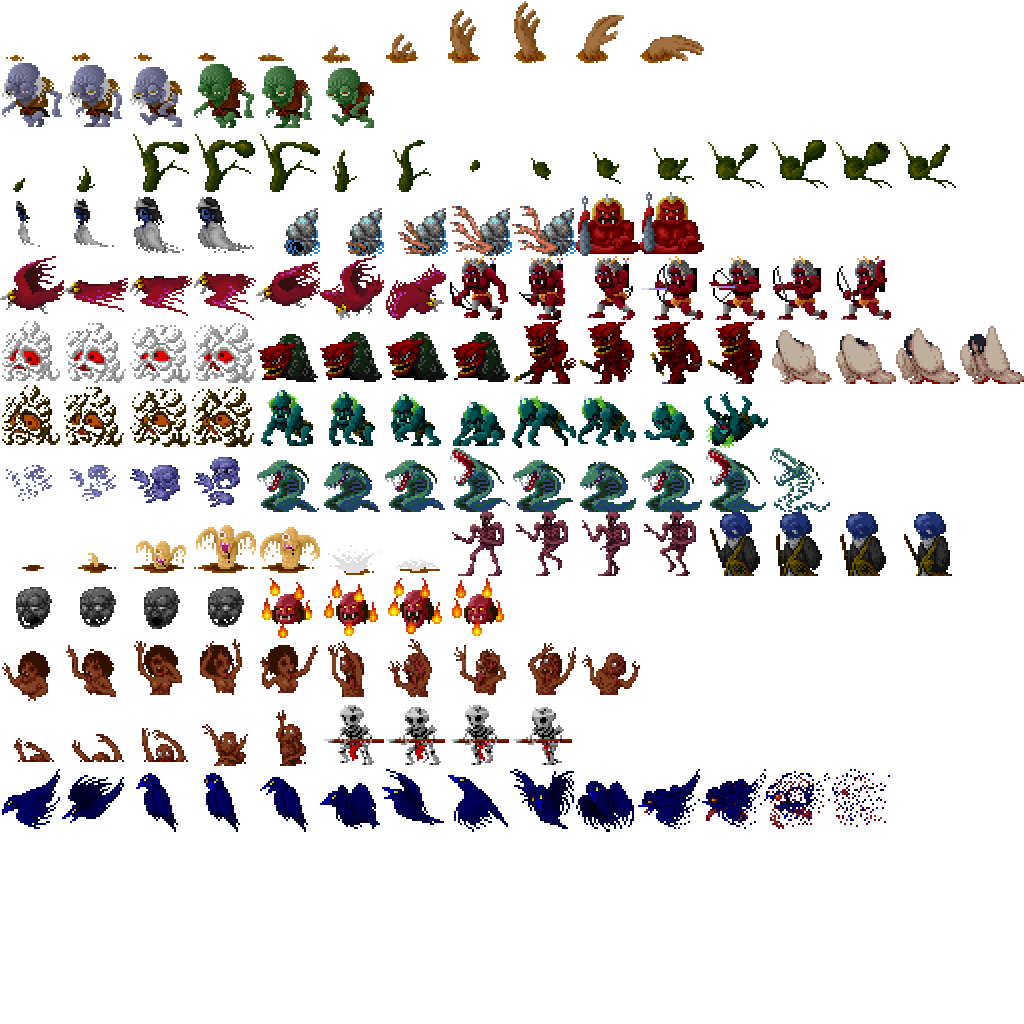
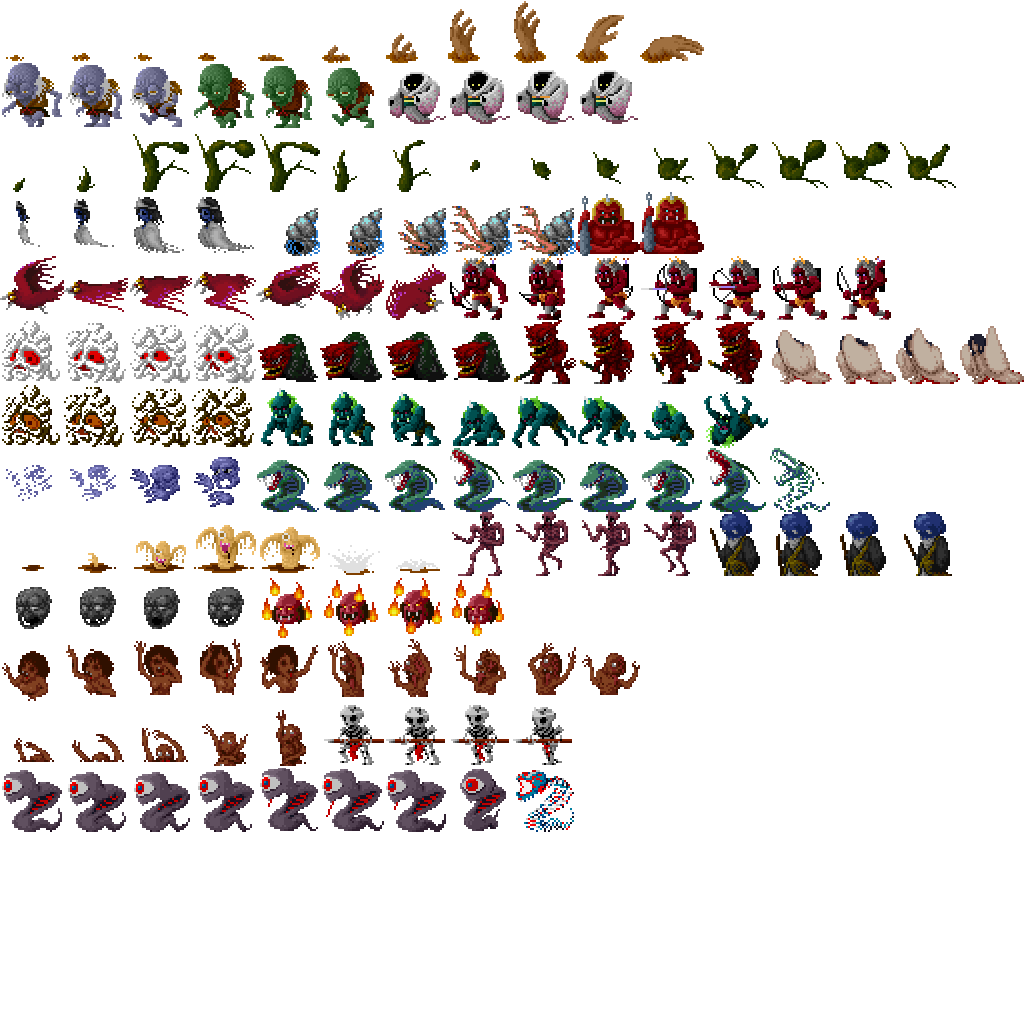
一つ目蛇

Changed region(s): [[0.0, 0.75, 0.8438, 0.8125], [0.375, 0.0625, 0.625, 0.125]]

diff --git a/Solution/AceLiveMonitor/EnemyOneEyeSnake.cpp b/Solution/AceLiveMonitor/EnemyOneEyeSnake.cpp
@@ -1,0 +1,42 @@
+#include "EnemyOneEyeSnake.h"
+
+const int WAIT_ANIM_TIME = 5;
+
+EnemyOneEyeSnake::EnemyOneEyeSnake( const Vector& pos ) :
+Enemy( pos, NORMAL_CHAR_GRAPH_SIZE ) {
+	setRadius( 36 );
+}
+
+
+EnemyOneEyeSnake::~EnemyOneEyeSnake( ) {
+}
+
+void EnemyOneEyeSnake::act( ) {
+
+}
+
+Chip EnemyOneEyeSnake::getChip( ) const {
+	const int ANIM[ ] = {
+		0, 1, 2, 3, 4, 5, 6, 7
+	};
+	int anim_size = sizeof( ANIM ) / sizeof( ANIM[ 0 ] );
+	Chip chip = Chip( );
+	chip.tx = ANIM[ getActCount( ) / WAIT_ANIM_TIME % anim_size ] * 64;
+	chip.ty = 12 * 64;
+	chip.size = getChipSize( );
+	
+	Vector pos = getPos( );
+	DIR dir = getDir( );
+	if ( dir == DIR_RIGHT ){
+		chip.sx1 = ( int )pos.x - chip.size / 2 + chip.size;
+		chip.sy1 = ( int )pos.y - chip.size;
+		chip.sx2 = chip.sx1 - chip.size;
+		chip.sy2 = chip.sy1 + chip.size;
+	} else {
+		chip.sx1 = ( int )pos.x - chip.size / 2;
+		chip.sy1 = ( int )pos.y - chip.size;
+		chip.sx2 = chip.sx1 + chip.size;
+		chip.sy2 = chip.sy1 + chip.size;
+	}
+	return chip;
+}

diff --git a/Solution/AceLiveMonitor/Popper.cpp b/Solution/AceLiveMonitor/Popper.cpp
@@ -11,6 +11,7 @@
 #include "PopCrocoSnake.h"
 #include "PopGhoul.h"
 #include "PopGhost.h"
+#include "PopOneEyeSnake.h"
 
 PopperPtr Popper::getTask( ) {
 	return std::dynamic_pointer_cast< Popper >( Application::getInstance( )->getTask( getTag( ) ) );
@@ -51,6 +52,9 @@ void Popper::initialize( ) {
 				break;
 			case  OBJECT_GHOST:	
 				_pops.push_back( PopPtr( new PopGhost( Vector( x, y ) ) ) );
+				break;
+			case  OBJECT_ONE_EYE_SNAKE:	
+				_pops.push_back( PopPtr( new PopOneEyeSnake( Vector( x, y ) ) ) );
 				break;
 			}
 		}

diff --git a/Solution/AceEditor/ObjectMenu.cpp b/Solution/AceEditor/ObjectMenu.cpp
@@ -49,6 +49,7 @@ const Rect enemies_rect[ ] = {
 	RECT_CROCO_SNAKE,
 	RECT_GHOUL,
 	RECT_GHOST,
+	RECT_ONE_EYE_SNAKE,
 };
 const int MAX_ENEMY = sizeof( enemies_rect ) / sizeof( enemies_rect[ 0 ] );
 
@@ -191,6 +192,9 @@ unsigned char ObjectMenu::getEnemy( int idx ) const {
 		break;
 	case 6:
 		result = OBJECT_GHOST;
+		break;
+	case 7:
+		result = OBJECT_ONE_EYE_SNAKE;
 		break;
 	default:
 		result = OBJECT_NONE;

diff --git a/Solution/AceLiveMonitor/PopOneEyeSnake.cpp b/Solution/AceLiveMonitor/PopOneEyeSnake.cpp
@@ -1,0 +1,19 @@
+#include "PopOneEyeSnake.h"
+#include "EnemyOneEyeSnake.h"
+#include "Military.h"
+
+PopOneEyeSnake::PopOneEyeSnake( const Vector& pos ) :
+_pos( pos ),
+_pop( false ) {
+}
+
+
+PopOneEyeSnake::~PopOneEyeSnake( ) {
+}
+
+void PopOneEyeSnake::update( ) {
+	if ( !_pop ) {
+		Military::getTask( )->popUp( EnemyPtr( new EnemyOneEyeSnake( _pos ) ) );
+		_pop = true;
+	}
+}

diff --git a/Solution/AceCommon/ace_enemy_rect.h b/Solution/AceCommon/ace_enemy_rect.h
@@ -23,3 +23,4 @@ const Rect RECT_LANCER( 5 * CHIP_SIZE, 11 * CHIP_SIZE );
 const Rect RECT_CROCO_SNAKE( 4 * CHIP_SIZE, 7 * CHIP_SIZE );
 const Rect RECT_GHOUL( 7 * CHIP_SIZE, 8 * CHIP_SIZE );
 const Rect RECT_GHOST( 2 * CHIP_SIZE, 3 * CHIP_SIZE );
+const Rect RECT_ONE_EYE_SNAKE( 0 * CHIP_SIZE, 12 * CHIP_SIZE );

diff --git a/Solution/AceCommon/ace_define.h b/Solution/AceCommon/ace_define.h
@@ -75,6 +75,7 @@ const unsigned char OBJECT_LANCER		  = 0x04;
 const unsigned char OBJECT_CROCO_SNAKE	  = 0x05;
 const unsigned char OBJECT_GHOUL		  = 0x06;
 const unsigned char OBJECT_GHOST		  = 0x07;
+const unsigned char OBJECT_ONE_EYE_SNAKE  = 0x08;
 
 //block
 const unsigned char OBJECT_BLOCK  = 0x80;

diff --git a/Solution/AceLiveMonitor/PopOneEyeSnake.h b/Solution/AceLiveMonitor/PopOneEyeSnake.h
@@ -1,0 +1,15 @@
+#pragma once
+#include "Pop.h"
+#include "mathmatics.h"
+
+class PopOneEyeSnake : public Pop {
+public:
+	PopOneEyeSnake( const Vector& pos );
+	virtual ~PopOneEyeSnake( );
+public:
+	void update( );
+private:
+	bool _pop;
+	Vector _pos;
+};
+

diff --git a/Solution/AceLiveMonitor/EnemyOneEyeSnake.h b/Solution/AceLiveMonitor/EnemyOneEyeSnake.h
@@ -1,0 +1,13 @@
+#pragma once
+#include "Enemy.h"
+
+class EnemyOneEyeSnake : public Enemy {
+public:
+	EnemyOneEyeSnake( const Vector& pos );
+	virtual ~EnemyOneEyeSnake( );
+public:
+	Chip getChip( ) const;
+protected:
+	void act( );
+};
+
